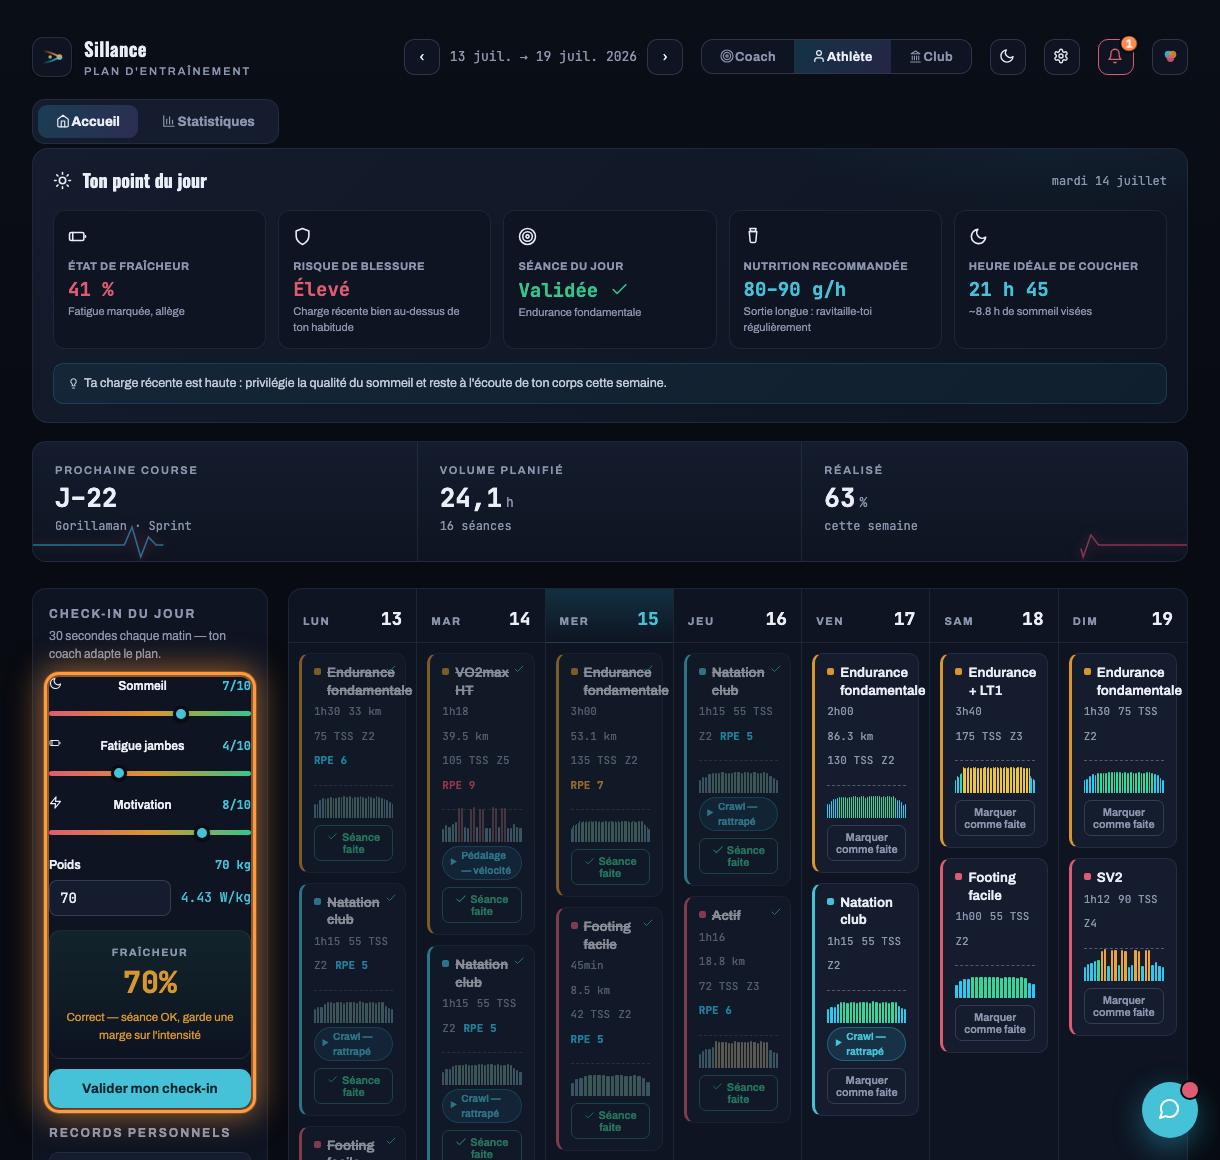
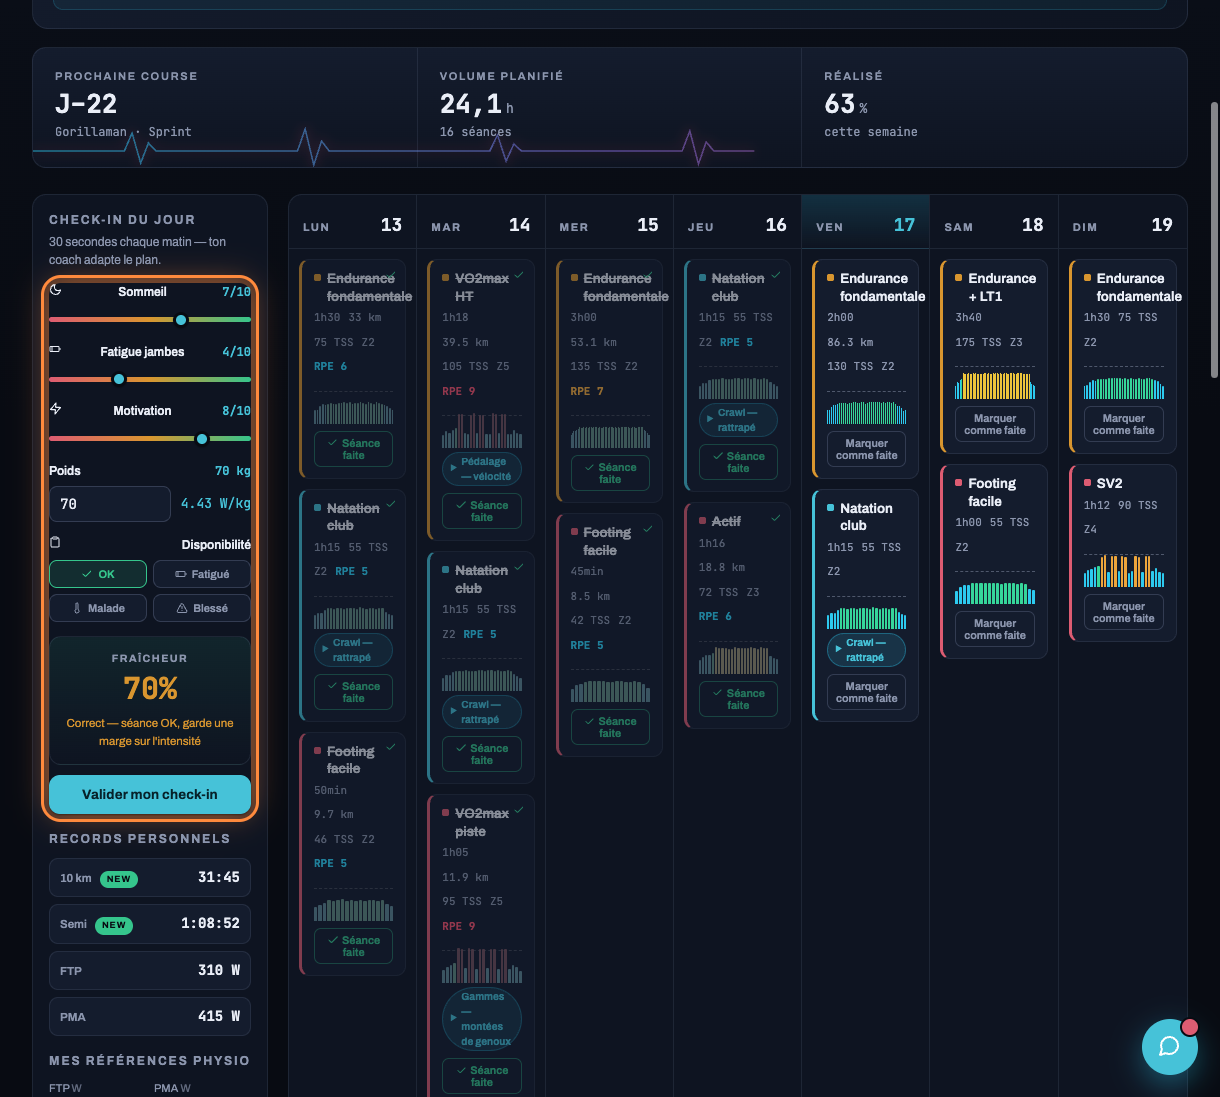
Aide : signaler une blessure ou une indisponibilité
Nouveau tuto 09 (2 captures : ligne Disponibilité côté athlète, flag
« Blessé » dans le bandeau coach), tutos suivants renumérotés 10-13.
checkin.png rafraîchi : le panneau inclut désormais la disponibilité.

diff --git a/sillance-aide.html b/sillance-aide.html
@@ -72,6 +72,7 @@
     <a href="#creneau">Créer un créneau &amp; inviter</a>
     <div class="lbl">Athlète</div>
     <a href="#checkin">Faire son check-in</a>
+    <a href="#dispo-blessure">Signaler une blessure / indispo</a>
     <a href="#connecter-montre">Connecter une montre</a>
     <a href="#import-fit">Importer un fichier .FIT</a>
     <a href="#ajouter-chaussure">Ajouter des chaussures</a>
@@ -216,17 +217,38 @@
       <ol class="steps">
         <li>Active le rôle <b>Athlète</b>. Le panneau <b>Check-in du jour</b> est à gauche.</li>
         <li>Règle les curseurs <b>Sommeil</b>, <b>Fatigue</b> et <b>Motivation</b>, et renseigne ton <b>poids</b> (le rapport W/kg se met à jour en direct).</li>
+        <li>Indique ta <b>disponibilité</b> du jour — OK, fatigué, malade ou blessé (détail au guide suivant).</li>
         <li>Ta <b>fraîcheur</b> se calcule automatiquement en dessous.</li>
         <li>Clique <span class="hlword">Valider mon check-in</span>. Si ta forme est basse, ton coach est prévenu.</li>
       </ol>
       <figure>
-        <img src="./aide-img/checkin.png" alt="Panneau de check-in encadré : curseurs, poids, fraîcheur et bouton Valider" loading="lazy">
-        <figcaption><span class="dot">●</span> Le panneau de check-in, curseurs et poids compris.</figcaption>
+        <img src="./aide-img/checkin.png" alt="Panneau de check-in encadré : curseurs, poids, disponibilité, fraîcheur et bouton Valider" loading="lazy">
+        <figcaption><span class="dot">●</span> Le panneau de check-in : curseurs, poids et disponibilité.</figcaption>
       </figure>
     </section>
 
+    <section class="tuto" id="dispo-blessure">
+      <h2><span class="no">09</span> Signaler une blessure ou une indisponibilité</h2>
+      <p class="lead">Une douleur, un rhume, une grosse semaine de boulot ? Dis-le à ton coach en deux clics — il adapte le plan au lieu de découvrir le problème trop tard.</p>
+      <ol class="steps">
+        <li>Dans le <b>Check-in du jour</b> (rôle <b>Athlète</b>), repère la ligne <span class="hlword">Disponibilité</span>.</li>
+        <li>Choisis ton état : <b>OK</b>, <b>Fatigué</b>, <b>Malade</b> ou <b>Blessé</b>.</li>
+        <li>Dès que ce n'est pas « OK », un champ de note apparaît : précise l'essentiel (<i>« douleur mollet droit depuis mardi »</i>).</li>
+        <li>Clique <span class="hlword">Valider mon check-in</span>. Si tu es blessé, ton coach reçoit une <b>alerte prioritaire</b> avec ta note.</li>
+      </ol>
+      <figure>
+        <img src="./aide-img/dispo-checkin.png" alt="Ligne Disponibilité encadrée dans le check-in : boutons OK, Fatigué, Malade, Blessé et champ de note" loading="lazy">
+        <figcaption><span class="dot">●</span> La ligne Disponibilité : l'état « Blessé » sélectionné fait apparaître le champ de note.</figcaption>
+      </figure>
+      <figure>
+        <img src="./aide-img/dispo-coach.png" alt="Bandeau coach : le signalement « Blessé » de l'athlète encadré en tête des alertes" loading="lazy">
+        <figcaption><span class="dot">●</span> Côté coach : le signalement arrive en tête du bandeau de l'athlète, et dans la colonne « Dispo » du tableau <a href="#adherence">Suivi de mes athlètes</a>.</figcaption>
+      </figure>
+      <div class="tip"><b>Pourquoi c'est important.</b> S'entraîner sur une douleur qui s'installe transforme une gêne en blessure longue. Un signalement honnête chaque matin vaut mieux qu'une séance forcée.</div>
+    </section>
+
     <section class="tuto" id="connecter-montre">
-      <h2><span class="no">09</span> Connecter une montre</h2>
+      <h2><span class="no">10</span> Connecter une montre</h2>
       <p class="lead">Fais remonter tes activités dans Sillance automatiquement.</p>
       <ol class="steps">
         <li>En rôle <b>Athlète</b>, va au panneau <b>Synchronisation</b> (bas du panneau de gauche).</li>
@@ -241,7 +263,7 @@
     </section>
 
     <section class="tuto" id="import-fit">
-      <h2><span class="no">10</span> Importer un fichier .FIT</h2>
+      <h2><span class="no">11</span> Importer un fichier .FIT</h2>
       <p class="lead">Pas de montre connectée ? Importe le fichier exporté de ta montre.</p>
       <ol class="steps">
         <li>Dans le panneau <b>Synchronisation</b>, clique <span class="hlword">Importer un fichier</span>.</li>
@@ -255,7 +277,7 @@
     </section>
 
     <section class="tuto" id="ajouter-chaussure">
-      <h2><span class="no">11</span> Ajouter des chaussures</h2>
+      <h2><span class="no">12</span> Ajouter des chaussures</h2>
       <p class="lead">Ajoute tes chaussures pour suivre leur usure et être alerté avant que l'amorti ne se dégrade.</p>
       <ol class="steps">
         <li>En rôle <b>Athlète</b>, va à la section <b>Mon matériel</b> et clique <b>+ Ajouter un équipement</b>.</li>
@@ -272,7 +294,7 @@
     </section>
 
     <section class="tuto" id="refs-physio">
-      <h2><span class="no">12</span> Éditer ses références physio</h2>
+      <h2><span class="no">13</span> Éditer ses références physio</h2>
       <p class="lead">Tes seuils personnels servent à calculer tes zones et à analyser tes séances : garde-les à jour.</p>
       <ol class="steps">
         <li>En rôle <b>Athlète</b>, descends le panneau de gauche jusqu'à <b>Mes références physio</b>.</li>